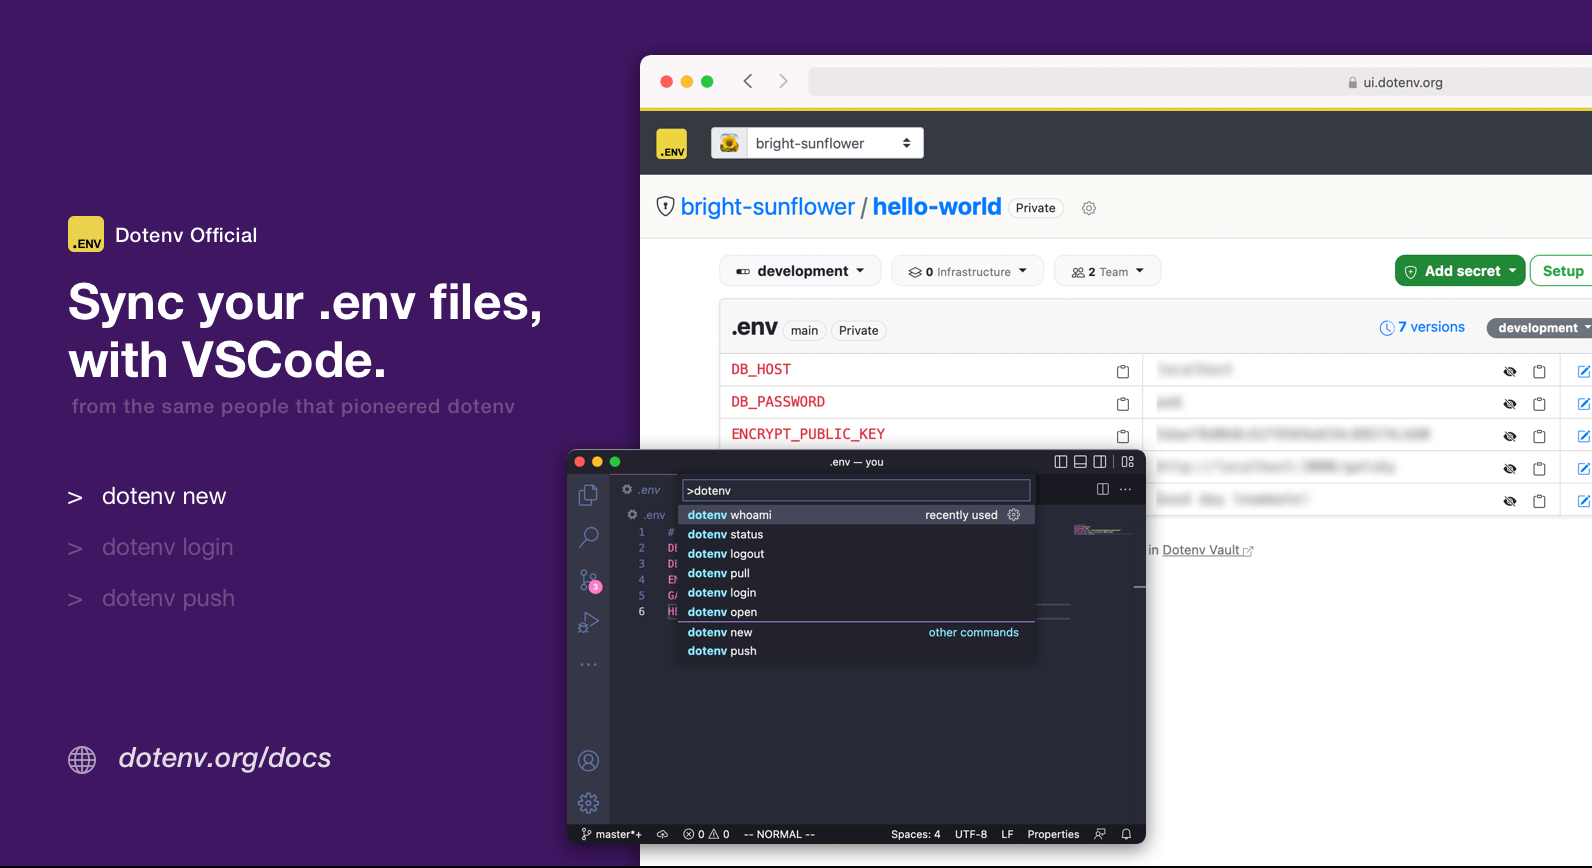
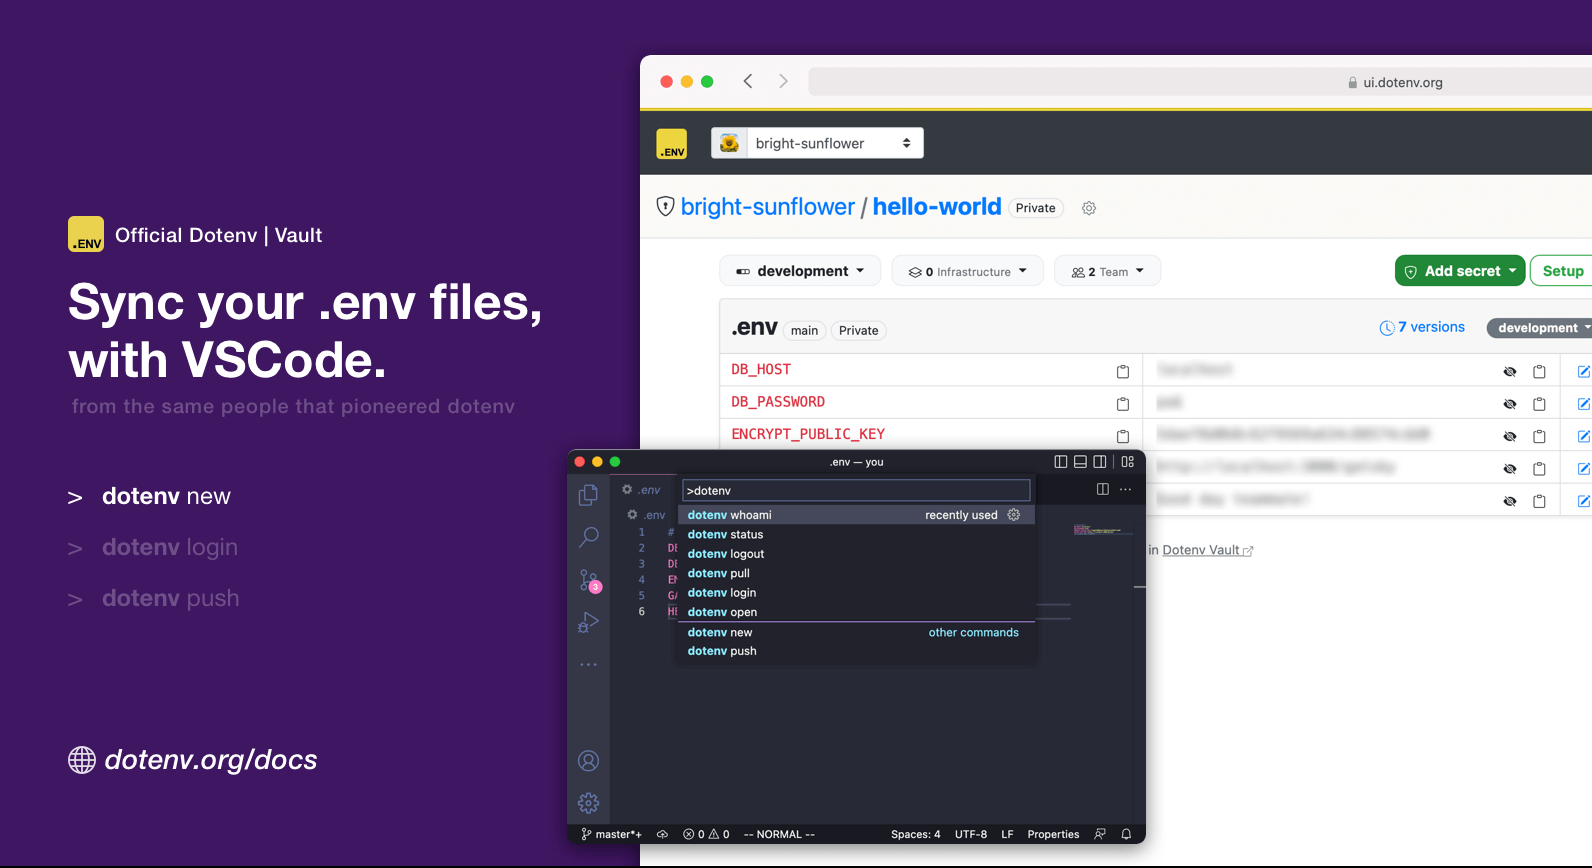
Update README

diff --git a/README.md b/README.md
@@ -1,11 +1,11 @@
 <h1 align="center">
-  <a href="https://docs.dotenv.org?r=1"><img src="https://raw.githubusercontent.com/motdotla/dotenv/master/dotenv.png" alt="dotenv-vault" width="100" height="100" ></a>
+  <a href="https://docs.dotenv.org?r=1"><img src="https://raw.githubusercontent.com/motdotla/dotenv/master/dotenv.png" alt="dotenv-vault" width="80" height="80" ></a>
   <br>
-  Dotenv for Visual Studio Code <a href="https://twitter.com/intent/tweet?text=dotenv-vault%20-%20sync%20environment%20variables%2C%20securely%20https%3A%2F%2Fgithub.com%2Fdotenv-org%2Fdotenv-vscode&hashtags=dotenv"><img src="https://img.shields.io/badge/Tweet--lightgrey?logo=twitter&style=social" alt="Tweet" height="20"/></a>
+  Official Dotenv | Vault with VSCode <a href="https://twitter.com/intent/tweet?text=dotenv-vault%20-%20sync%20environment%20variables%2C%20securely%20https%3A%2F%2Fgithub.com%2Fdotenv-org%2Fdotenv-vscode&hashtags=dotenv"><img src="https://img.shields.io/badge/Tweet--lightgrey?logo=twitter&style=social" alt="Tweet" height="20"/></a>
   <br>
 </h1>
 
-<h4 align="center">Sync your .env files, securely.</h4>
+<h4 align="center">Sync your .env files, with VSCode.</h4>
 
 <p align="center">
   <a href="#usage">Usage</a>
